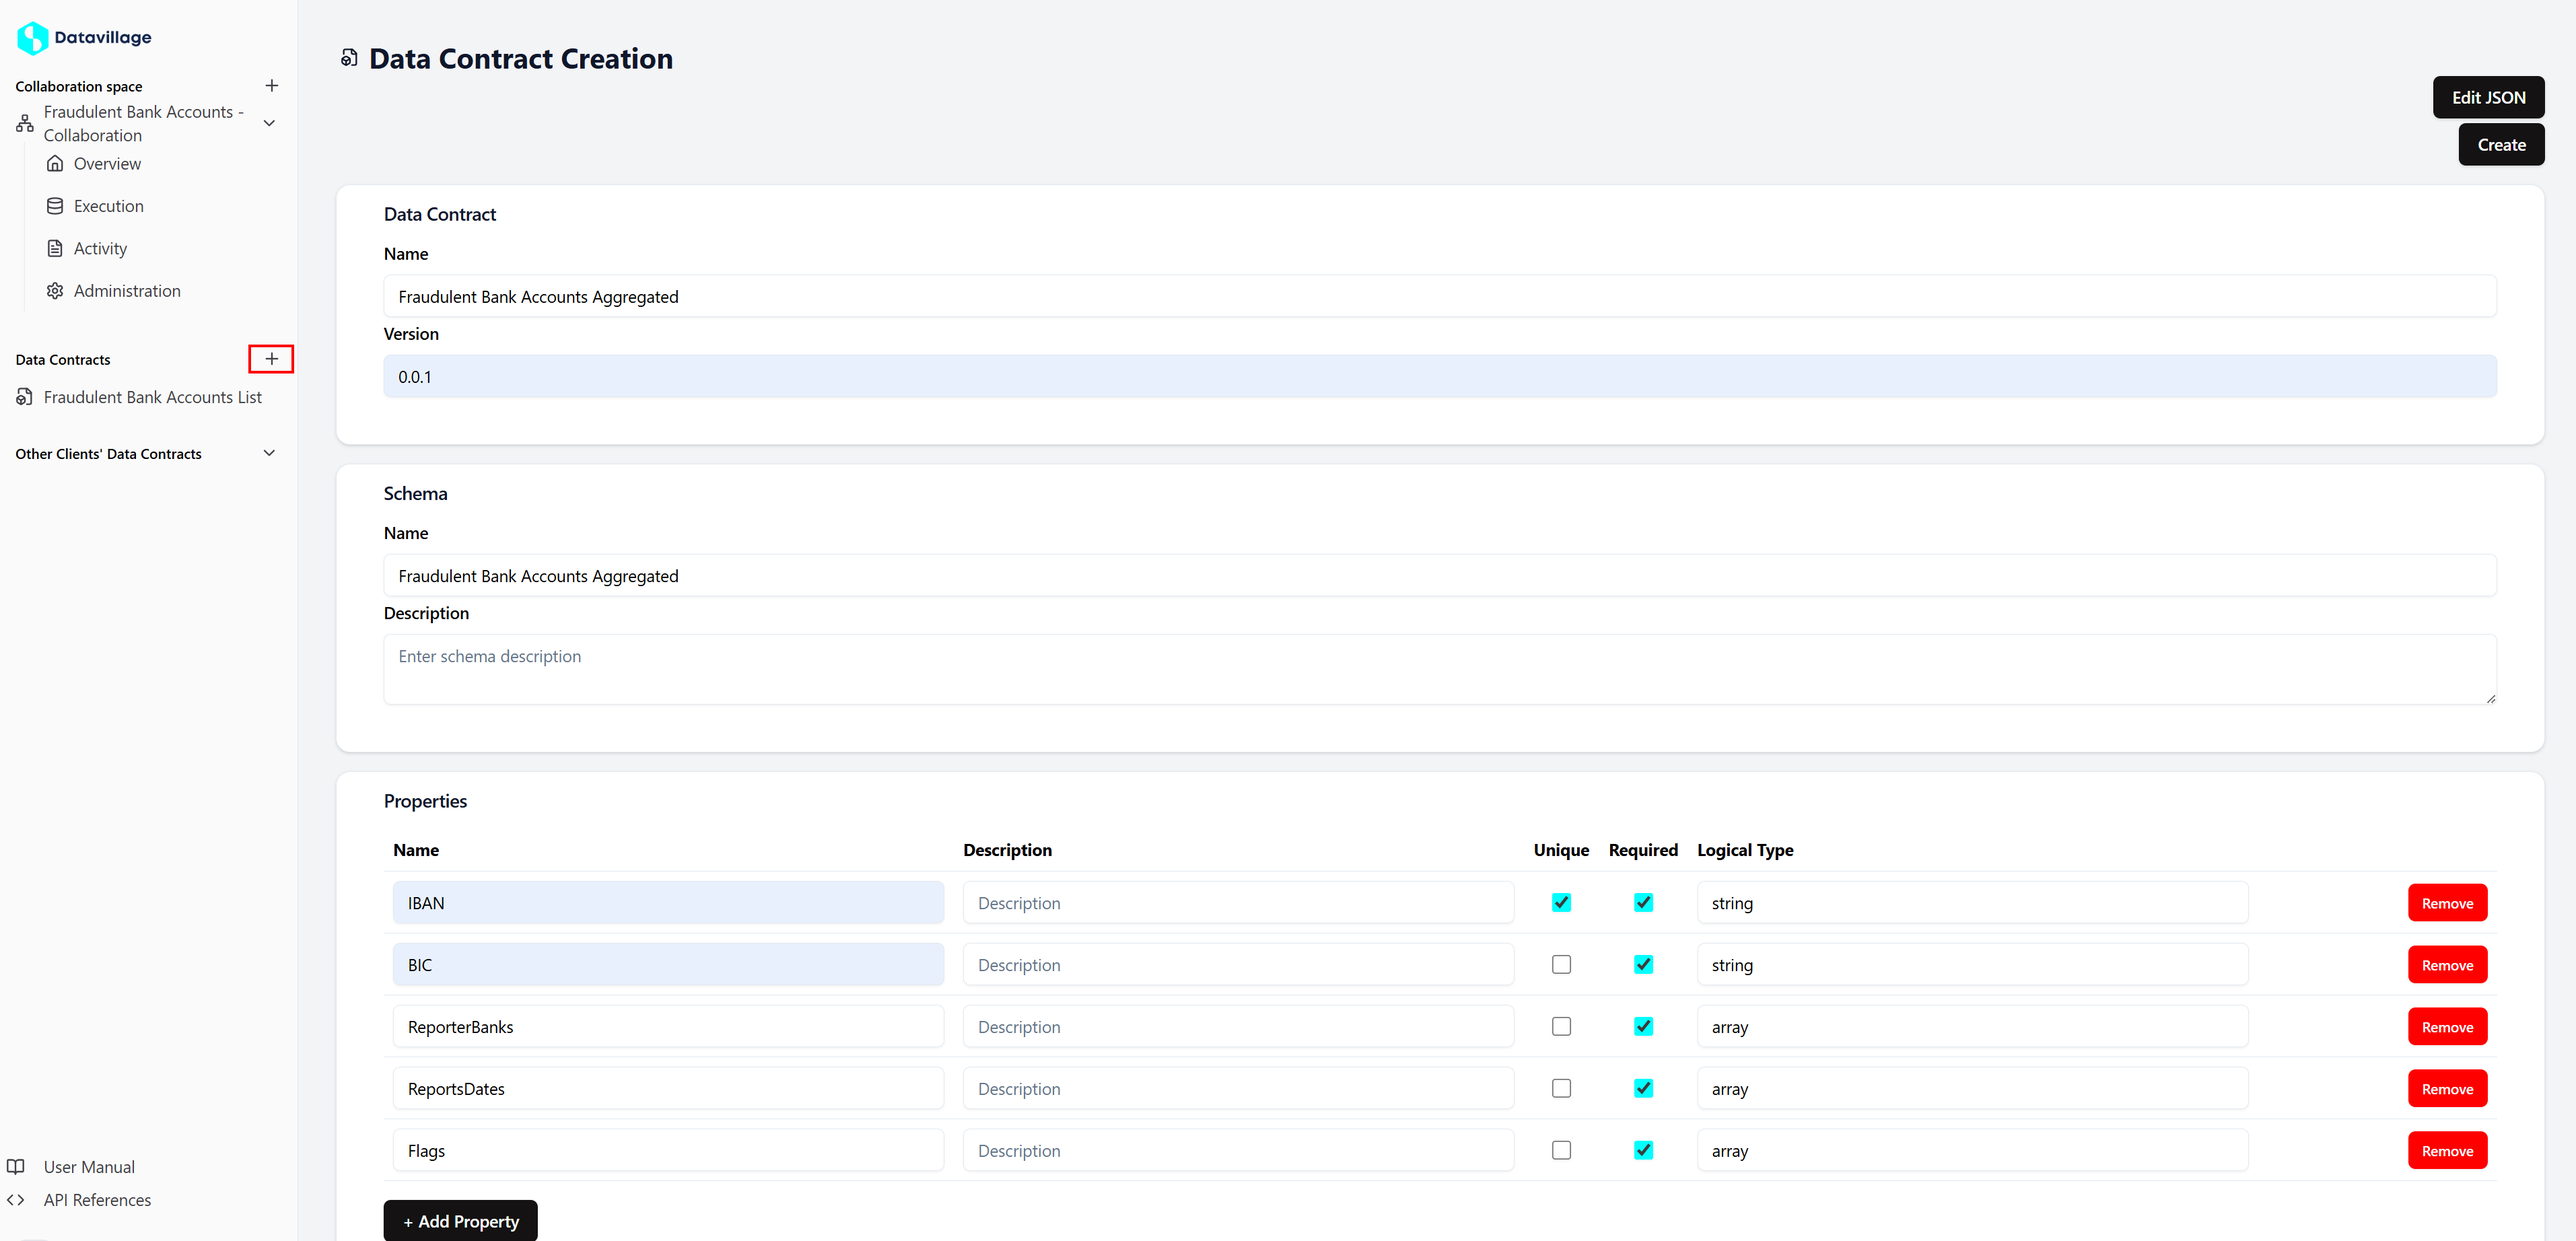
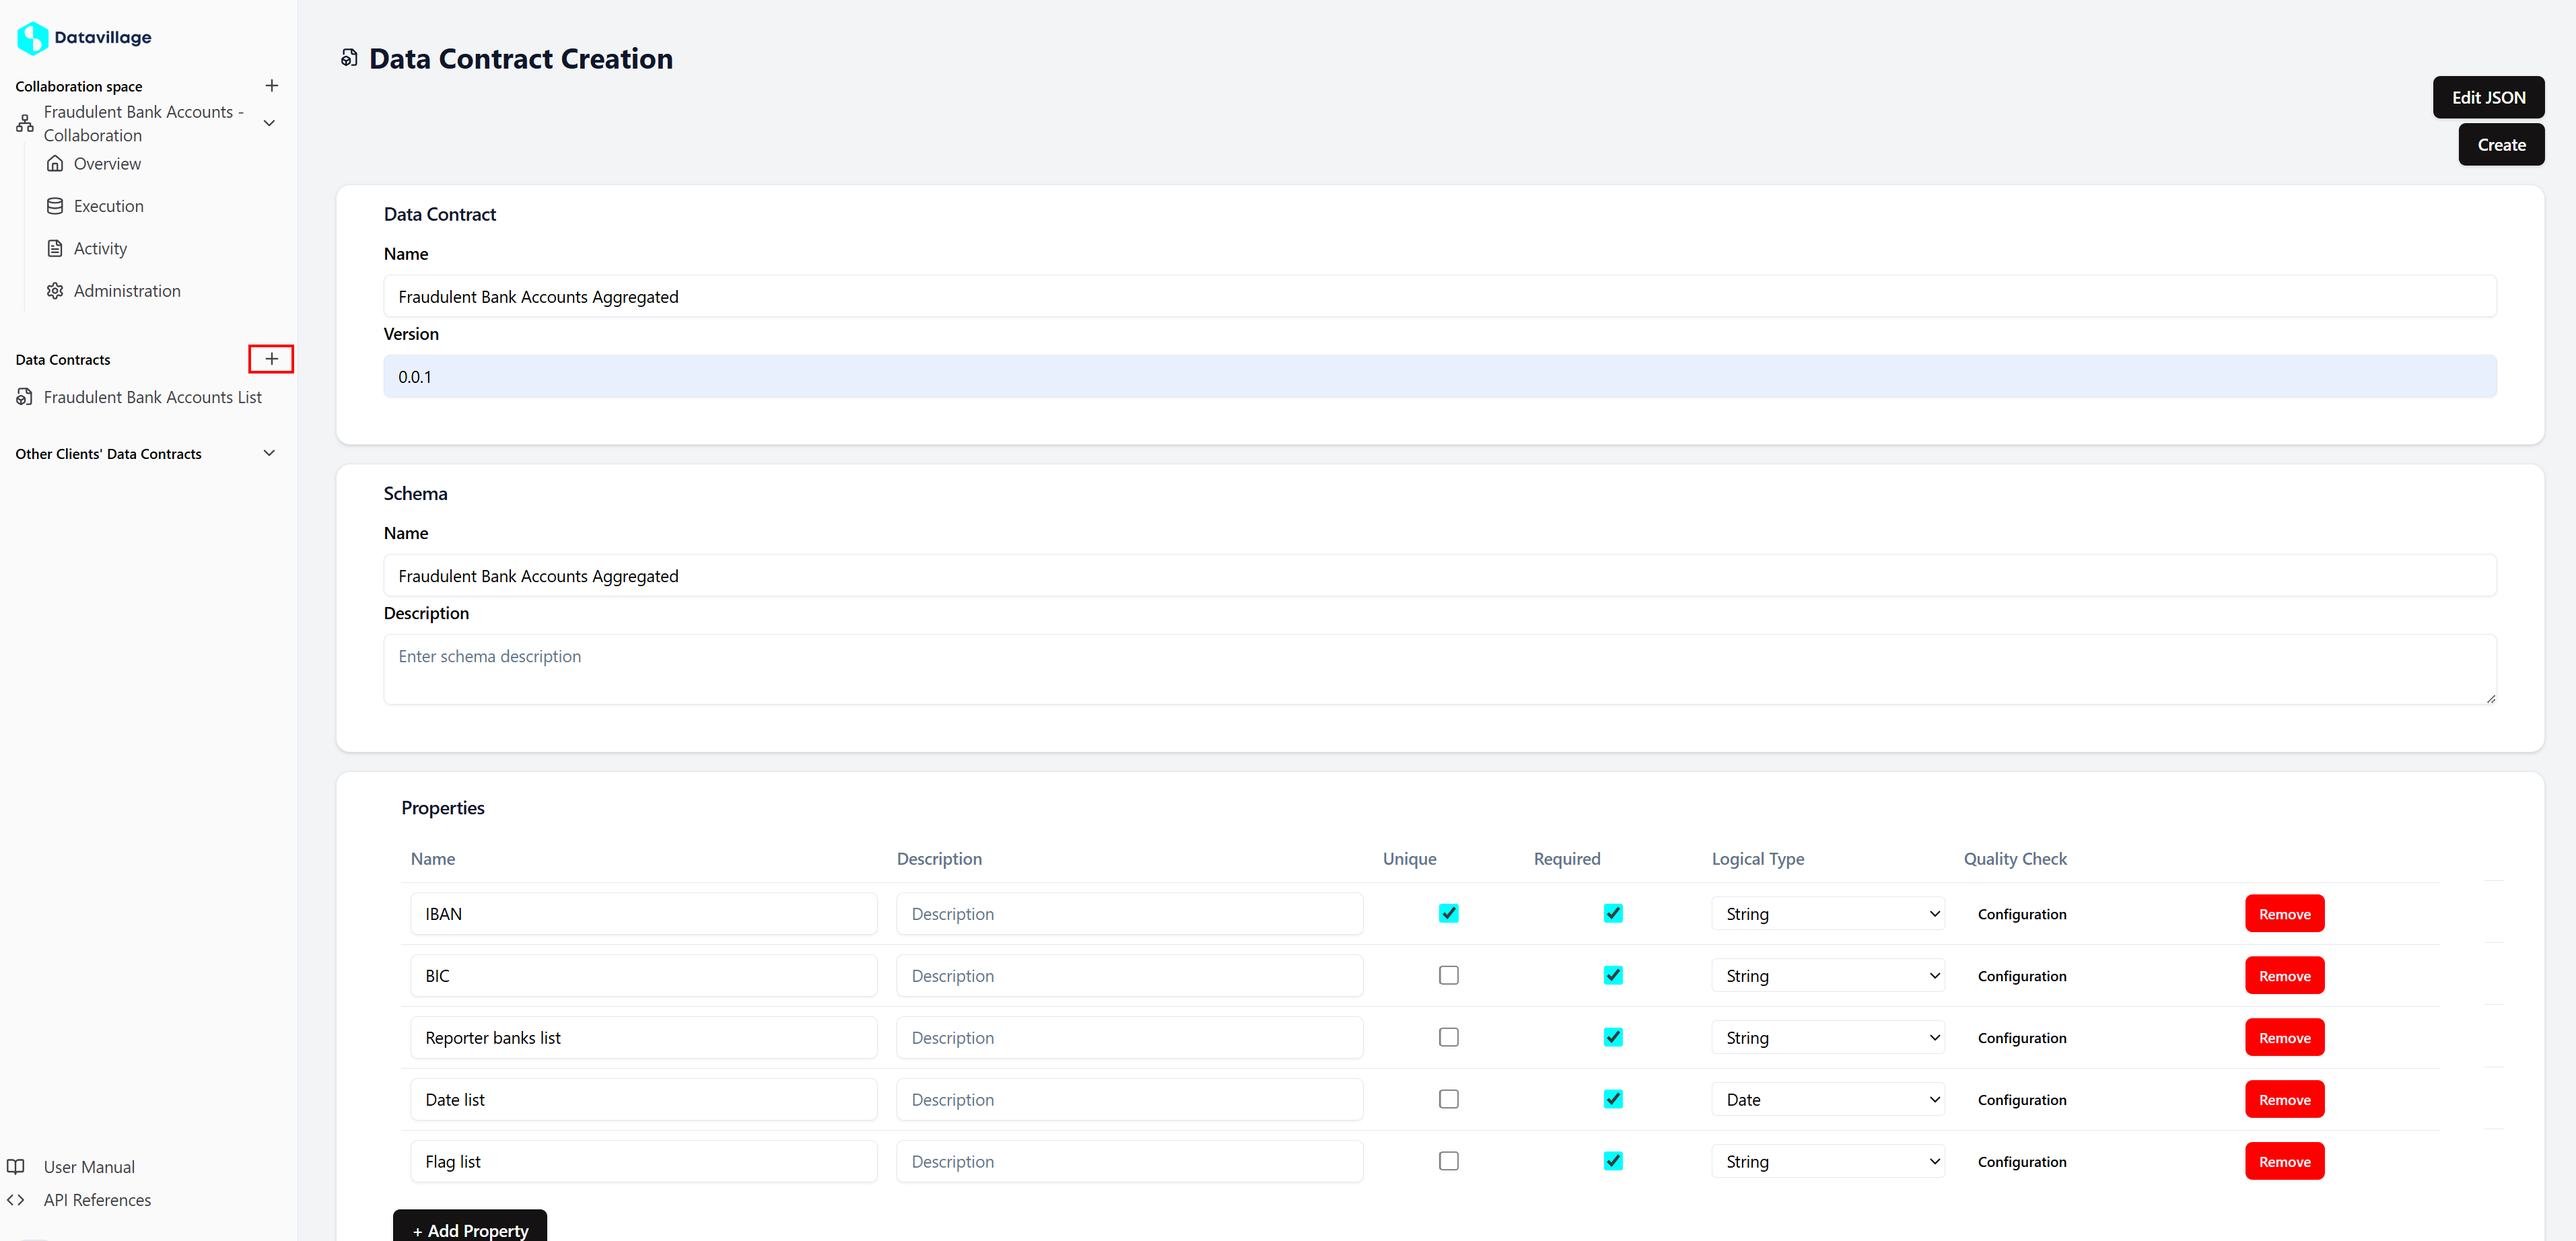
Add datacontract logicaltypeoptions

diff --git a/docs/user-manual/collaboration-space-owner/data-contract-management/create-data-contract.md b/docs/user-manual/collaboration-space-owner/data-contract-management/create-data-contract.md
@@ -15,6 +15,32 @@ Data contracts are a fundamental concept in the Data Collaboration Platform (DCP
 - **Single data contract per server:**  
   A collaborator configures the server where the data should be pulled/pushed. Every such server should be described by exactly one data contract. The data pushed/pulled should comply with all properties defined in the schema. It is thus not possible to describe servers with different structures in one contract.
 
+# Quality Check Configuration
+
+We run the quality checks on the following core properties:
+
+- `required`
+- `unique`
+- `logicalType`
+
+Depending on the `logicalType` of the field, it is possible to configure additional quality checks as defined in the table below.
+
+| Type    | Property         | Name              | Description                                                                                                                                                                 |
+| ------- | ---------------- | ----------------- | --------------------------------------------------------------------------------------------------------------------------------------------------------------------------- |
+| date    | exclusiveMaximum | Exclusive Maximum | If set to true, all values are strictly less than the maximum value (values &lt; maximum). Otherwise, less than or equal to the maximum value (values &lt;= maximum).       |
+| date    | exclusiveMinimum | Exclusive Minimum | If set to true, all values are strictly greater than the minimum value (values &gt; minimum). Otherwise, greater than or equal to the minimum value (values &gt;= minimum). |
+| date    | maximum          | Maximum           | All date values are less than or equal to this value (values &lt;= maximum).                                                                                                |
+| date    | minimum          | Minimum           | All date values are greater than or equal to this value (values &gt;= minimum).                                                                                             |
+| date    | format           | Format            | Define the date format.                                                                                                                                                     |
+| integer | exclusiveMaximum | Exclusive Maximum | If set to true, all values are strictly less than the maximum value (values &lt; maximum). Otherwise, less than or equal to the maximum value (values &lt;= maximum).       |
+| integer | exclusiveMinimum | Exclusive Minimum | If set to true, all values are strictly greater than the minimum value (values &gt; minimum). Otherwise, greater than or equal to the minimum value (values &gt;= minimum). |
+| integer | format           | Format            | Format of the value in terms of how many bits of space it can use and whether it is signed or unsigned (follows the Rust integer types).                                    |
+| integer | maximum          | Maximum           | All values are less than or equal to this value (values &lt;= maximum).                                                                                                     |
+| integer | minimum          | Minimum           | All values are greater than or equal to this value (values &gt;= minimum).                                                                                                  |
+| string  | maxLength        | Maximum Length    | Maximum length of the string.                                                                                                                                               |
+| string  | minLength        | Minimum Length    | Minimum length of the string.                                                                                                                                               |
+| string  | pattern          | Pattern           | Regular expression pattern to define valid value. Follows regular expression syntax from ECMA-262 (https://262.ecma-international.org/5.1/#sec-15.10.1).                    |
+
 ## Create data contract
 
 Follow these steps to create a new data contract:
